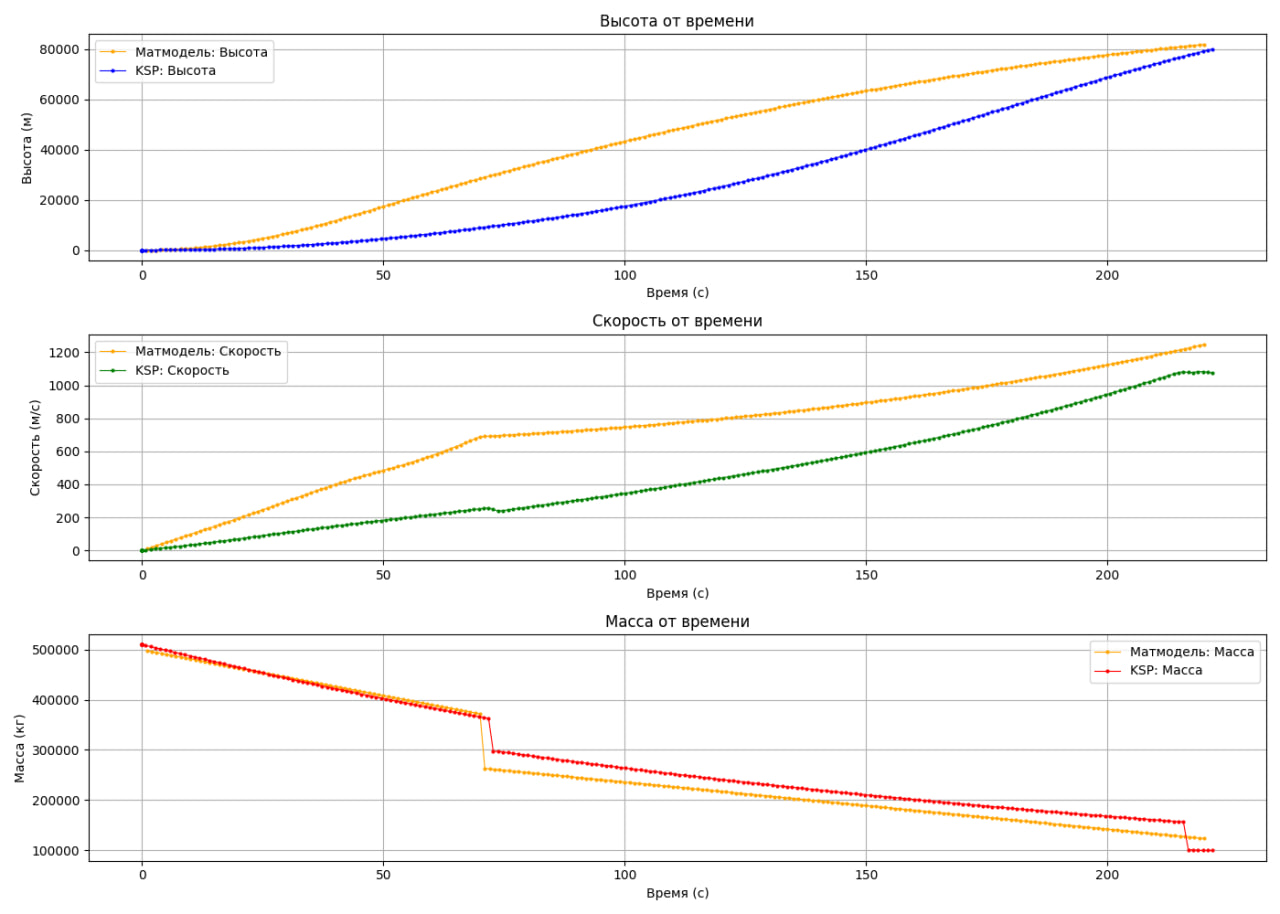
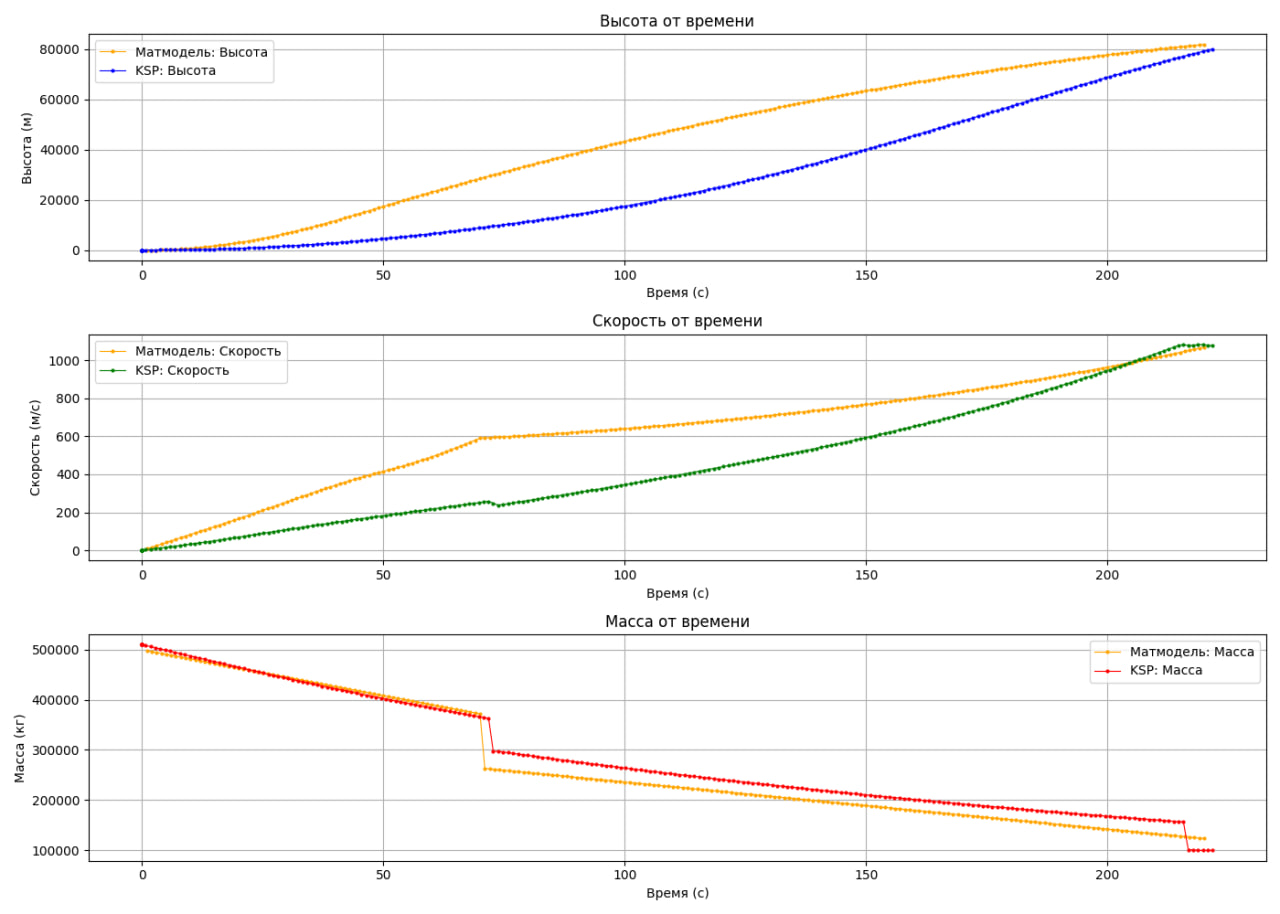
bugfix

Changed region(s): [[0.0312, 0.3676, 0.9688, 0.6127]]

diff --git a/math_model.py b/math_model.py
@@ -92,7 +92,7 @@ for i in range(len(stages)):
 
 # Корректировка коэффициентов
 height_correction_factor = 4
-speed_correction_factor = 6
+speed_correction_factor = 7
 
 # Открываем файл с данными из ksp
 with open("data.json", "r") as file:
